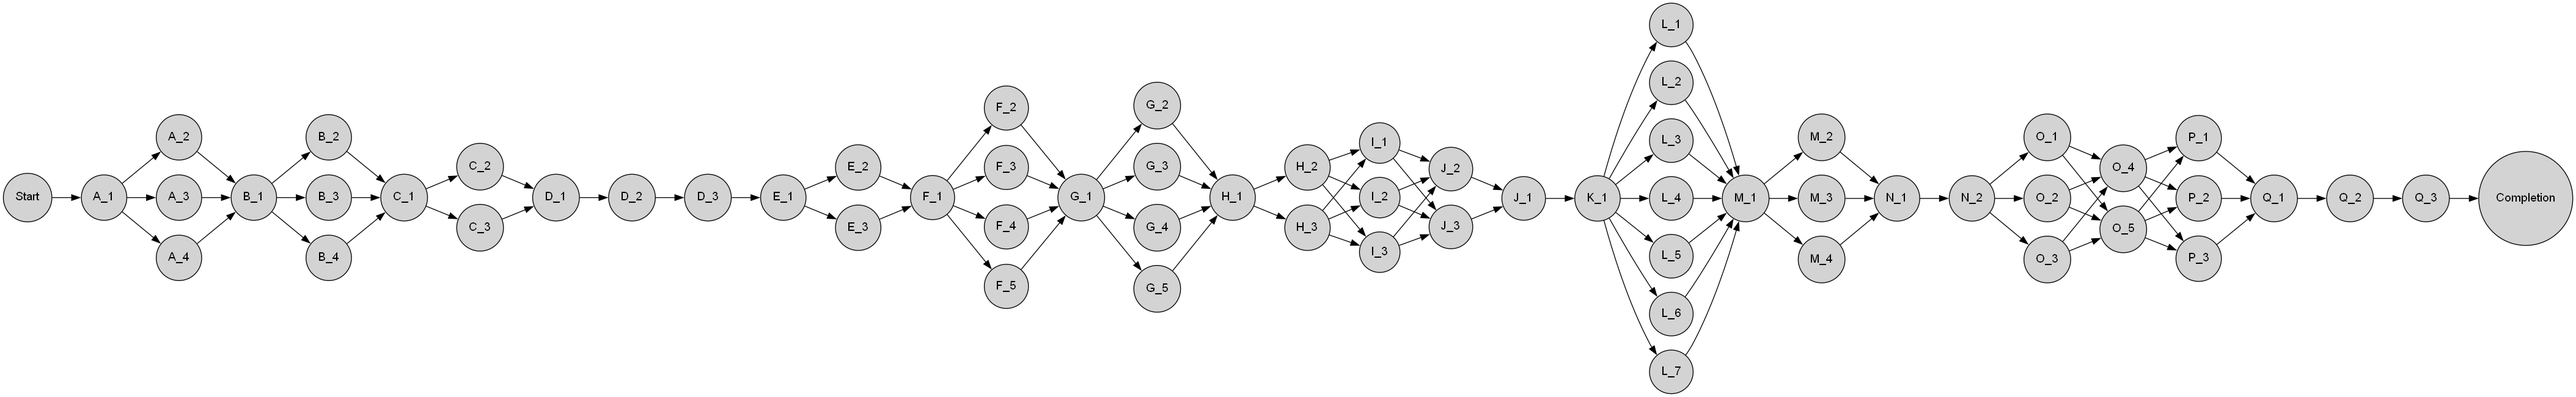
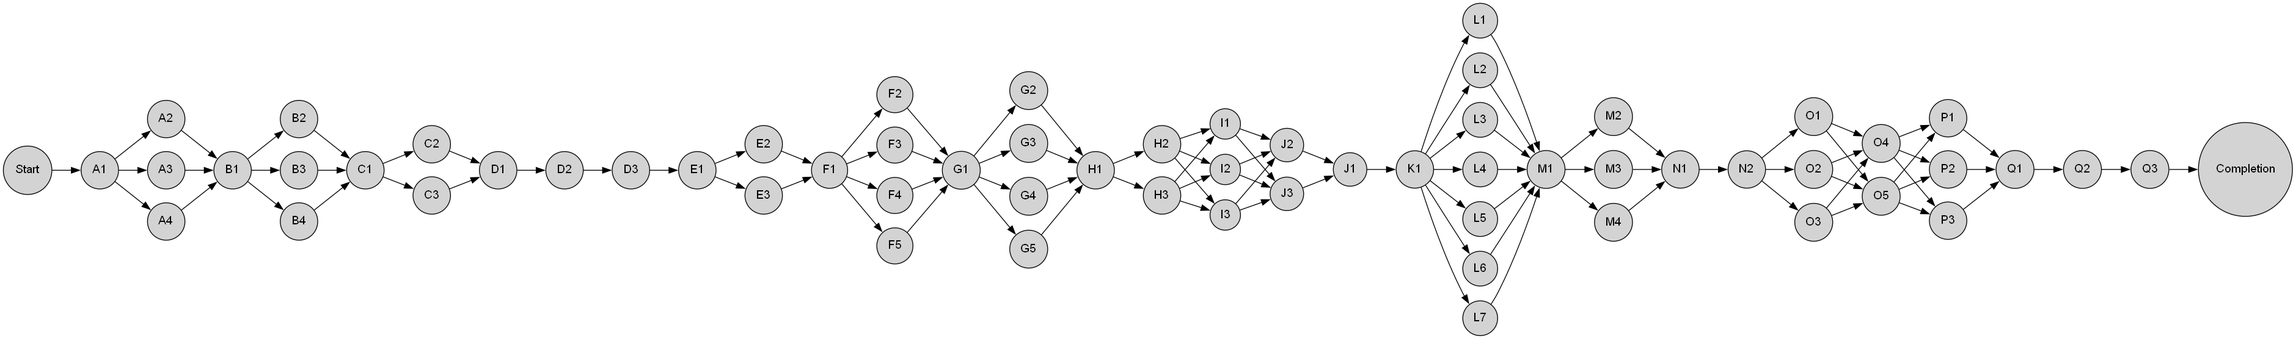
Change formatting on graph pngs

diff --git a/utils.py b/utils.py
@@ -83,9 +83,9 @@ def getDotTextFromTree(project: Project) -> str:
     return string
 
 def addNode(string: str, task: Task) -> str:
-        string += f'\"{task.code.replace(".", "_")}\" [style = \"filled\" label = \"{task.code.replace(".", "_")}\"];\n'
+        string += f'\"{task.code.replace(".", "")}\" [style = \"filled\" label = \"{task.code.replace(".", "")}\"];\n'
         for predecessor in task.predecessors:
-            string += f'"{str(predecessor.code).replace(".", "_")}\" -> \"{str(task.code).replace(".", "_")}";\n'
+            string += f'"{str(predecessor.code).replace(".", "")}\" -> \"{str(task.code).replace(".", "")}";\n'
         return string
 
 
@@ -106,7 +106,7 @@ def deleteAllDots(self):
 
 def main():
     random.seed(1)
-    filename = 'Warehouse.xlsx'
+    filename = 'Villa.xlsx'
     filepath = os.path.join(ROOT, 'resources', filename)
     project = loadProjectFromFile(filepath=filepath)
     project.calculateDates()

diff --git a/project_simulator.py b/project_simulator.py
@@ -96,7 +96,7 @@ class ProjectSimulator():
 
         
 def main():
-    ProjectSimulator.task_5()
+    ProjectSimulator.task_4()
 
 if __name__ == '__main__':
     main()
